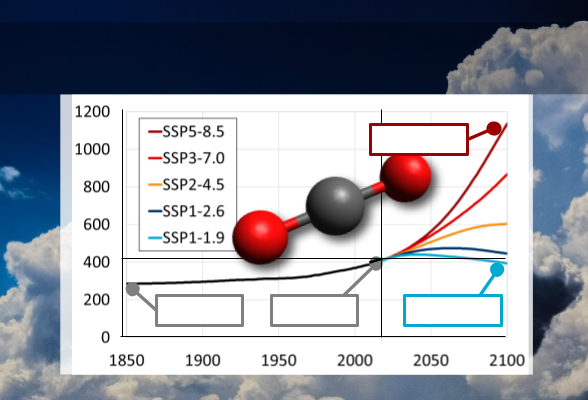
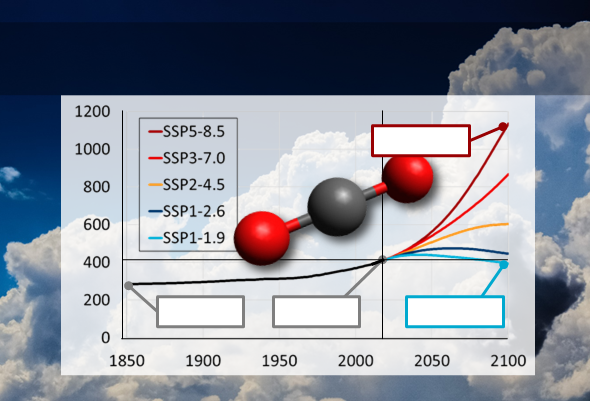
minor ajustments in

Changed region(s): [[0.0918, 0.21, 0.9184, 0.96]]

diff --git a/src/components/cards/CardFifteen.vue b/src/components/cards/CardFifteen.vue
@@ -96,7 +96,7 @@ export default {
     width: 163px;
     height: 15px;
     justify-content: right;
-    color: lightsalmon;
+    color: #FF9B00;
     /* border: solid red; */
 }
 
@@ -115,7 +115,7 @@ export default {
     width: 163px;
     height: 15px;
     justify-content: right;
-    color: grey;
+    color: #969595;
     /* border: solid red; */
 }
 
@@ -125,7 +125,7 @@ export default {
     width: 163px;
     height: 15px;
     justify-content: right;
-    color: cyan;
+    color: #62F0F3;
     /* border: solid red; */
 }
 
@@ -135,7 +135,7 @@ export default {
     width: 163px;
     height: 15px;
     justify-content: right;
-    color: darkgreen;
+    color: #1D5707;
     /* border: solid red; */
 }
 
@@ -145,7 +145,7 @@ export default {
     width: 163px;
     height: 15px;
     justify-content: right;
-    color: lightblue;
+    color: #CADBC3;
     /* border: solid red; */
 }
 
@@ -155,7 +155,7 @@ export default {
     width: 163px;
     height: 15px;
     justify-content: right;
-    color: lightgreen;
+    color: #7AB191;
     /* border: solid red; */
 }
 
@@ -165,7 +165,7 @@ export default {
     width: 163px;
     height: 15px;
     justify-content: right;
-    color: green;
+    color: #498DA5;
     /* border: solid red; */
 }
 
@@ -175,7 +175,7 @@ export default {
     width: 163px;
     height: 16px;
     justify-content: right;
-    color: darkgrey;
+    color: #A6A6A6;
     /* border: solid red; */
 }
 
@@ -185,7 +185,7 @@ export default {
     width: 133px;
     height: 18px;
     justify-content: right;
-    color: green;
+    color: #58E60F;
     /* border: solid red; */
 }
 
@@ -195,7 +195,7 @@ export default {
     width: 133px;
     height: 18px;
     justify-content: right;
-    color: red;
+    color: #EE350B;
     z-index: 3; /* devant */
     /* border: solid red; */
 }
@@ -206,7 +206,7 @@ export default {
     width: 134px;
     height: 22px;
     justify-content: right;
-    color: orange;
+    color: #FE9D07;
     z-index: 3; /* devant */
     /* border: solid red; */
 }
@@ -217,7 +217,7 @@ export default {
     width: 133px;
     height: 19px;
     justify-content: right;
-    color: grey;
+    color: #595959;
     /* border: solid red; */
 }
 

diff --git a/src/components/cards/CardTwentyTwo.vue b/src/components/cards/CardTwentyTwo.vue
@@ -6,6 +6,9 @@
         <div id="card22-label2" class="horizontal-center vertical-center label black card22-label2-position">
             <p id="card22-text2" class="font-small">{{ $t('V1C22L7') }}</p>
         </div>
+        <div id="card22-label3" class="label card22-label3-position">
+            <p id="card22-text3" class="font-small">{{ $t('V1C999L90') }}</p>
+        </div>
         <div id="card22-fixed-label1" class="horizontal-center vertical-center label black card22-fixed-label1-position">
             <p id="card22-fixed-text1" class="font-small">20 cm</p>
         </div>
@@ -49,7 +52,15 @@ export default {
     height: 70px;
     /* border: solid red; */
 }
-
+.card22-label3-position {
+    top: 420px;
+    left: 300px;
+    width: 345px;
+    height: 30px;
+    text-align: right;
+    color:grey;
+    /* border: solid red 0.5px; */
+}
 .card22-fixed-label1-position {
     top: 306px;
     left: 132px;

diff --git a/src/components/cards/CardEleven.vue b/src/components/cards/CardEleven.vue
@@ -13,7 +13,7 @@
             <p id="card11-fixed-text3" class="font-small">400 ppm</p>
         </div> 
         <div id="card11-fixed-label4" class="horizontal-center vertical-center label black card11-fixed-label4-position">
-            <p id="card11-fixed-text4" class="font-small">415 ppm</p>
+            <p id="card11-fixed-text4" class="font-small">420 ppm</p>
         </div> 
         <template v-slot:back-content>
             <div id="card11-back-label2" class="label white set-two">

diff --git a/src/components/cards/CardFourtyFour.vue b/src/components/cards/CardFourtyFour.vue
@@ -26,7 +26,7 @@
                 <div class="logo"></div>
             </div>
             <div class="label white front-card-label2-position">
-                <p>{{ "Climate Fresk - " + $t('V0C0L0') + " - Adults - V8.4- 09/09/2024"}}</p>
+                <p>{{ "Climate Fresk - " + $t('V0C0L0') + " - Adults - V9.0- 09/09/2024"}}</p>
             </div>
             <div class="label outline-container-back">
                 <div class="outline">All the cards are in your hands!</div>

diff --git a/src/directives/logoDirective.js b/src/directives/logoDirective.js
@@ -11,7 +11,7 @@ export default {
                 logo.style.top = '30px';
                 logo.style.left = '505px';
                 logo.style.width = '148px';
-                logo.style.height = '42px';
+                logo.style.height = '40px';
             });
             const logoBigContainerElements = el.querySelectorAll('.logo-container-big');
             logoBigContainerElements.forEach(logo => {

diff --git a/src/components/cards/CardZero.vue b/src/components/cards/CardZero.vue
@@ -129,14 +129,14 @@ export default {
 }
 
 .card0-label7-position {
-    top: 399px;
+    top: 394px;
     left: 166px;
     width: 96px;
-    height: 22px;
+    height: 32px;
     color: red;
     font-weight: 900;
     /* border: red solid; */
-    font-size: 15px;
+    font-size: 14px;
 }
 
 .card0-label8-position {

diff --git a/src/directives/co2SubscriptDirective.js b/src/directives/co2SubscriptDirective.js
@@ -27,5 +27,9 @@ export default {
         regex = /O3/g;
         replacement = 'O<sub>3</sub>O';
         el.innerHTML = el.innerHTML.replace(regex, replacement);
+
+        regex = /m2/g;
+        replacement = 'm<sup>2</sup>';
+        el.innerHTML = el.innerHTML.replace(regex, replacement);
     },
 };

diff --git a/src/main.js b/src/main.js
@@ -54,7 +54,7 @@ const messages = {
 // const locale = process.env.VUE_APP_LOCALE || "en";
 
 const i18n = createI18n({
-  locale: "en", // Remplacer par locale si passée en parametre
+  locale: "fr", // Remplacer par locale si passée en parametre
   fallbackLocale: "en",
   messages,
 });
